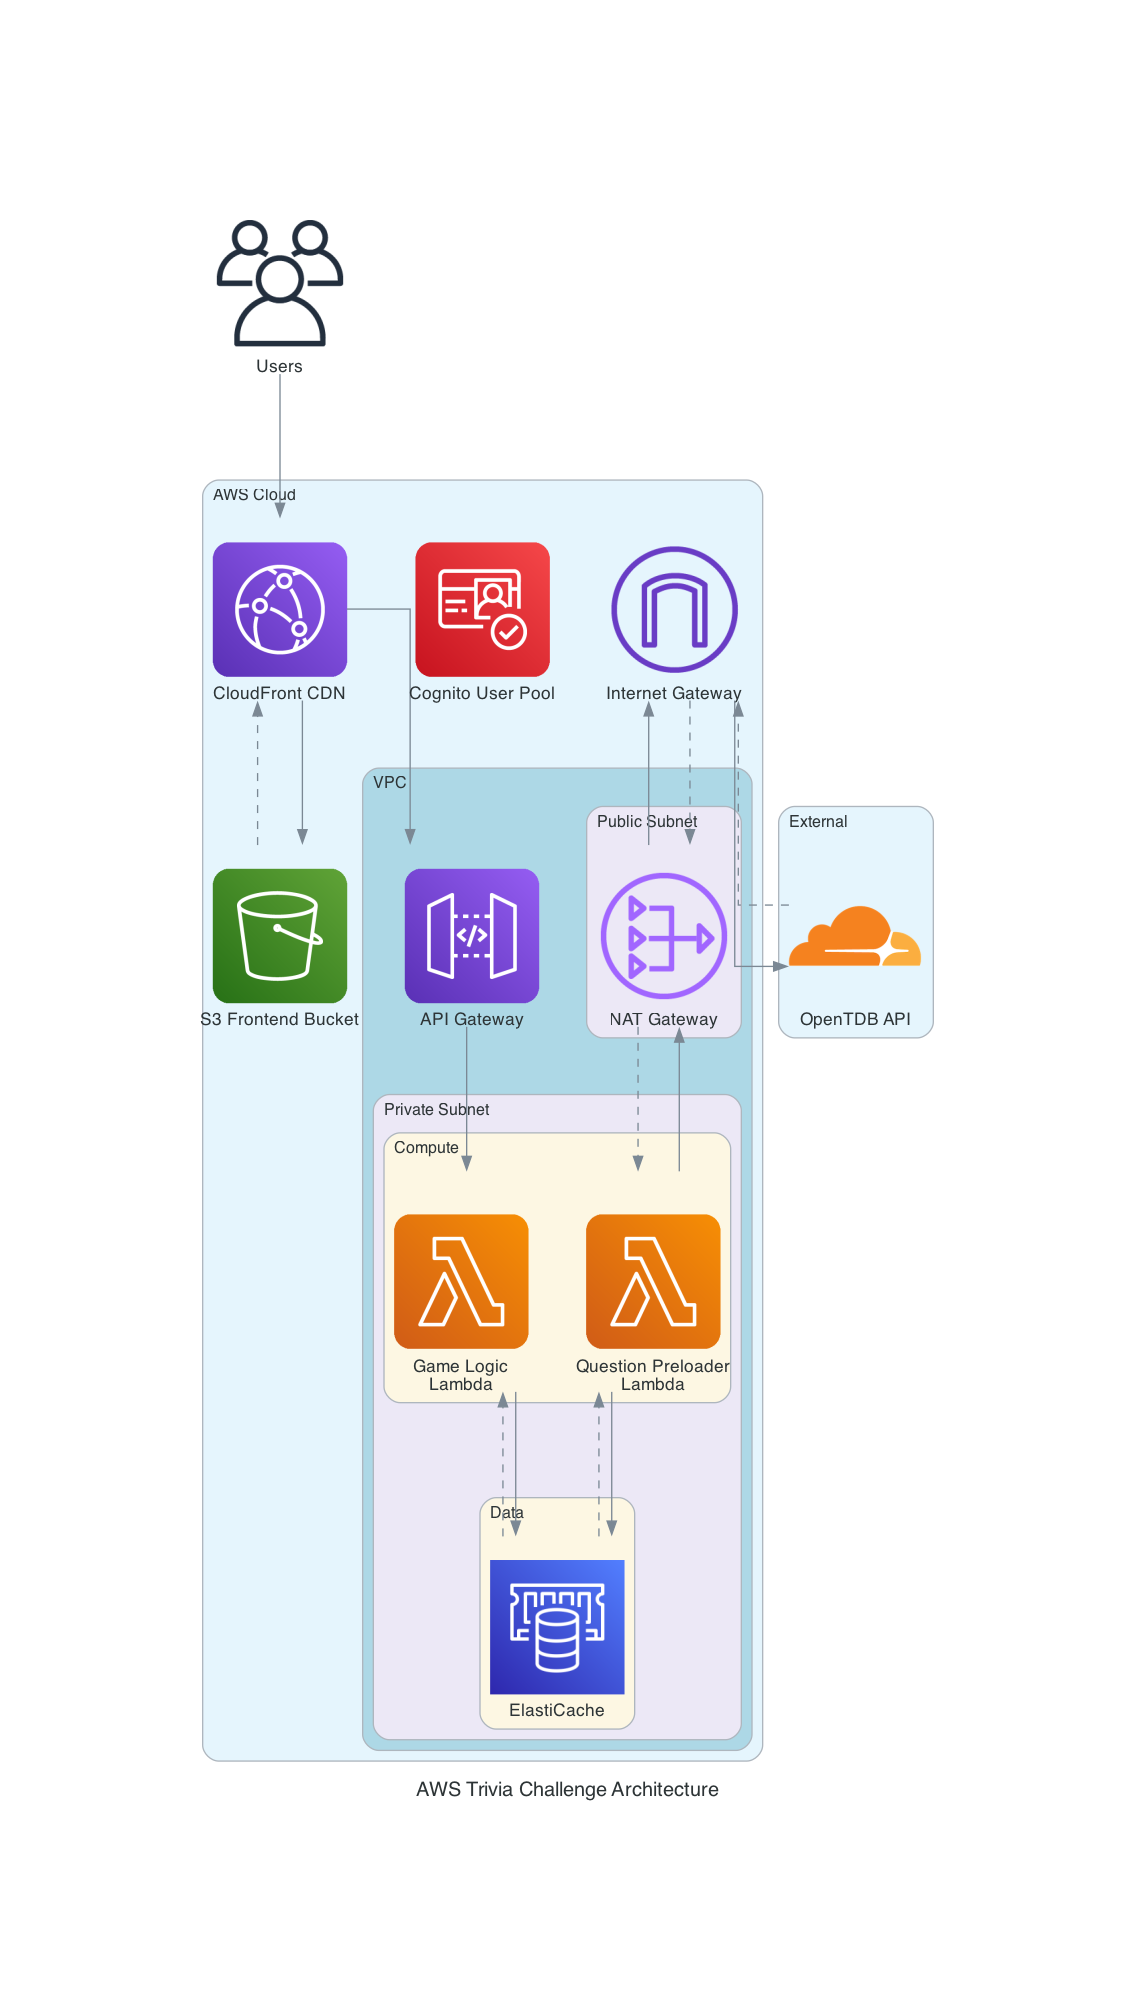
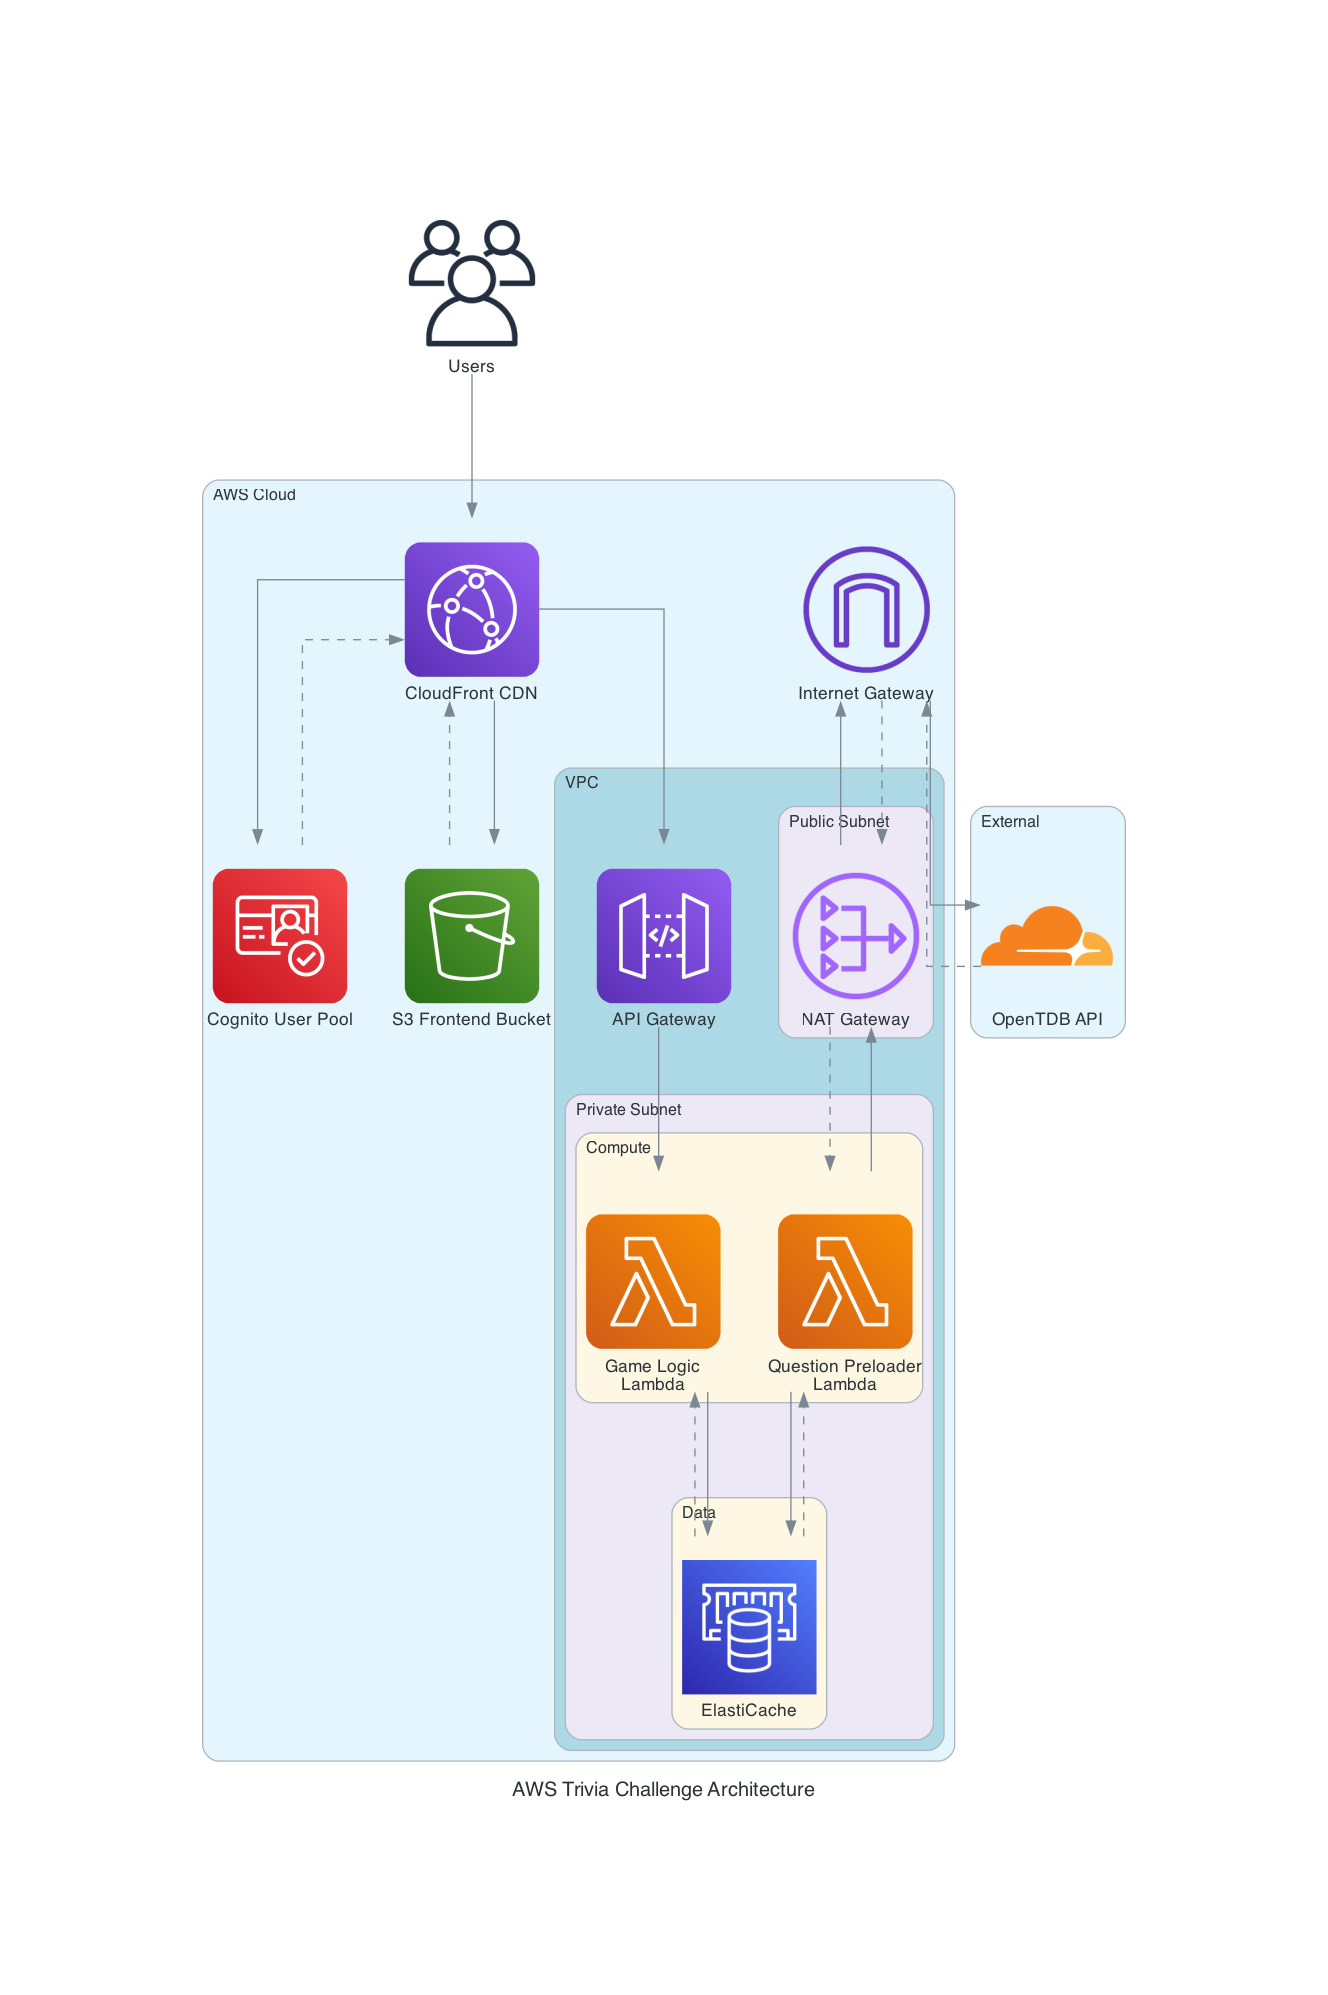
Add proper Cognito authentication flow: frontend (CloudFront) connects to Cognito for user auth

Changed region(s): [[0.154, 0.2175, 0.8627, 0.9013], [0.1849, 0.0932, 0.4005, 0.1865]]

diff --git a/architecture/architecture_diagram.py b/architecture/architecture_diagram.py
@@ -55,6 +55,10 @@ with Diagram("AWS Trivia Challenge Architecture", show=False, direction="TB", gr
     cloudfront >> s3
     s3 >> Edge(style="dashed") >> cloudfront
     
+    # Frontend authentication with Cognito
+    cloudfront >> cognito
+    cognito >> Edge(style="dashed") >> cloudfront
+    
     # API requests through CloudFront
     cloudfront >> api_gw
     
